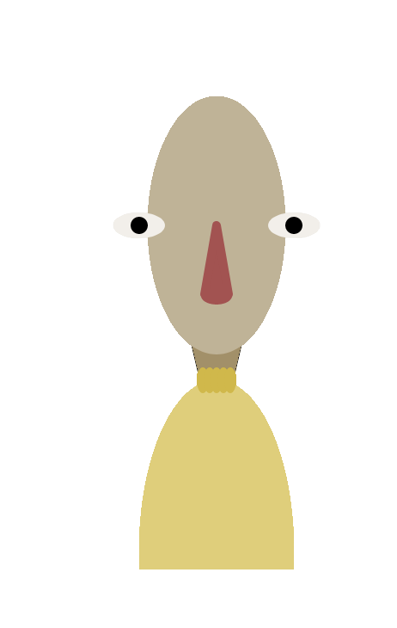
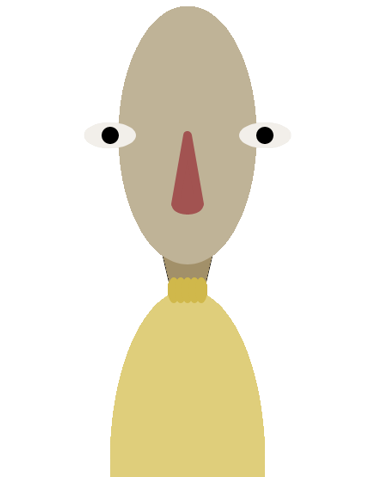
add img

Changed region(s): [[0.269, 0.0, 0.7772, 1.0], [0.4484, 0.2642, 0.5978, 0.499]]

diff --git a/weekly_assignment/week2/w1style.css b/weekly_assignment/week2/w1style.css
@@ -83,13 +83,26 @@ html, body {
 
 }
 
-#char_img{
+/* #char_img{
+    background-color: red;
     z-index: 0;
+    left: 0;
     position:absolute;
     top: 0;
-    display: flex;
-    align-items: flex-start;
+    /* display: flex;
+    justify-content: start; */
     /* display: flex; */
+
+#content {
+    position: relative;
+    z-index: 0;
+}
+#content img {
+    position: absolute;
+    top: 0px;
+    right: 0px;
+    transform: scaleY(-1);
+
 }
 
 body{

diff --git a/weekly_assignment/week2/wireframe1.html b/weekly_assignment/week2/wireframe1.html
@@ -17,7 +17,9 @@
             Project Title
         </div>
 
-        <img src="char.png" width="500" id = "char_img">
+        <div id="content">
+            <img src="char.png" width="300" id= "imgChar">
+        </div>
 
         <div id="project">
             <iframe src="https://editor.p5js.org/Nouf-Alabbasi/full/D91hgbsy9" id = "demo" scrolling="no" frameborder="0"></iframe>
